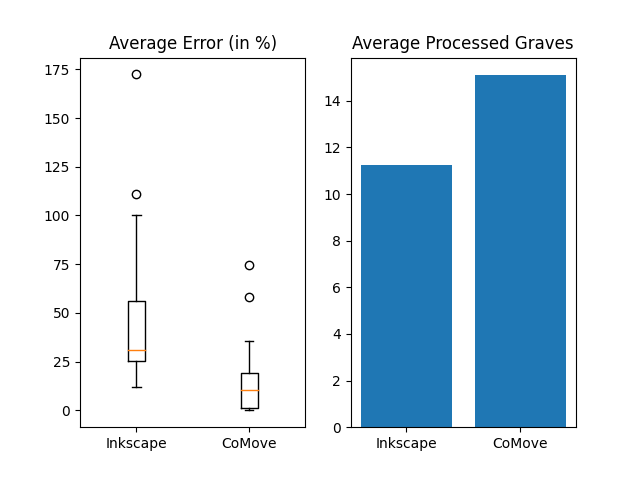
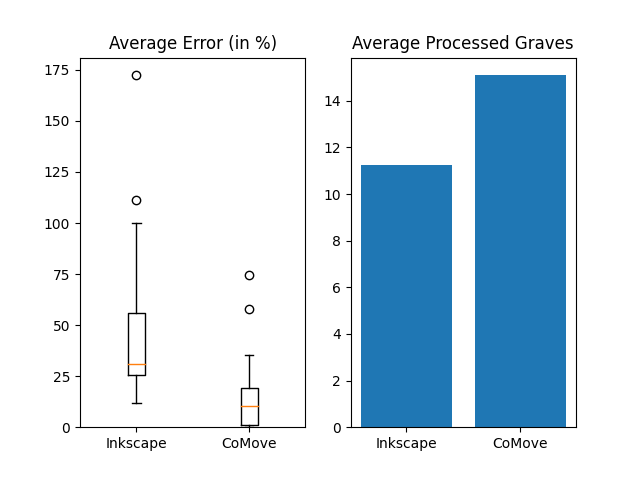
upgma

diff --git a/map/map.py b/map/map.py
@@ -75,6 +75,30 @@ ARICESTI = {
 	'name': 'Ariceștii Rahtivani'
 }
 
+Ciulnita = {
+	'lat': 44.5373408,
+	'lon': 27.3290492,
+	'name': 'Ciulniţa'
+}
+
+Ploiesti = {
+	'lat': 44.9322345,
+	'lon': 25.9686931,
+	'name': 'Ploiești'
+}
+
+Rast = {
+	'lat': 43.8871136,
+	'lon': 23.2735062,
+	'name': 'Rast'
+}
+
+Gurbanesti = {
+	'lat': 44.3792834,
+	'lon': 26.681199,
+	'name': 'Gurbănești'
+}
+
 KOSTYLEVA_UTKIN_RECTANGLE = {
 	'left_bottom': {
 		'lat': 58.27543554276217,
@@ -194,6 +218,107 @@ IVANOVA_TOSHCHEV = {
 	'name': 'Ivanova & Toshchev'
 }
 
+LOUGAS_2016 = {
+	'left_top': {
+		'lat': 59.76703651770406,
+		'lon': 21.6013758030299
+	},
+	'right_top': {
+		'lat': 59.76703651770406,
+		'lon': 27.50023158104496
+	},
+	'left_bottom': {
+		'lat': 57.239364088889104,
+		'lon': 21.6013758030299
+	},
+	'right_bottom': {
+		'lat': 57.239364088889104,
+		'lon': 27.50023158104496
+	},
+	'name': 'Lougas et al 2016'
+}
+
+Gadzyatskaya_2016 = {
+	'left_top': {
+		'lat': 58.104821370702204,
+		'lon': 37.8562392180725
+	},
+	'right_top': {
+		'lat': 58.104821370702204,
+		'lon': 47.63966569928308
+	},
+	'left_bottom': {
+		'lat': 54.61221373386977,
+		'lon': 37.8562392180725
+	},
+	'right_bottom': {
+		'lat': 54.61221373386977,
+		'lon': 47.63966569928308
+	},
+	'name': 'Gadzyatskaya 1976'
+}
+
+Shtintsa_1987 = {
+	'left_top': {
+		'lat': 48.41733033467862,
+		'lon': 27.947938855929397
+	},
+	'right_top': {
+		'lat': 48.41733033467862,
+		'lon': 29.45041596439392
+	},
+	'left_bottom': {
+		'lat': 45.94486828285594,
+		'lon': 27.947938855929397
+	},
+	'right_bottom': {
+		'lat': 45.94486828285594,
+		'lon': 29.45041596439392
+	},
+	'name': 'Gadzyatskaya 1976'
+}
+
+Krainov_1963 = {
+	'left_top': {
+		'lat': 56.57242189778502,
+		'lon': 36.151626620253325
+	},
+	'right_top': {
+		'lat': 56.57242189778502,
+		'lon': 39.11353142737622
+	},
+	'left_bottom': {
+		'lat': 54.36300312740703,
+		'lon': 36.151626620253325
+	},
+	'right_bottom': {
+		'lat': 54.36300312740703,
+		'lon': 39.11353142737622
+	},
+	'name': 'Krainov 1963'
+}
+
+Krainov_1964 = {
+	'left_top': {
+		'lat': 57.22313603869134,
+		'lon': 37.499534552379245
+	},
+	'right_top': {
+		'lat': 57.22313603869134,
+		'lon': 40.43452022589467
+	},
+	'left_bottom': {
+		'lat': 56.17501721104373,
+		'lon': 37.499534552379245
+	},
+	'right_bottom': {
+		'lat': 56.17501721104373,
+		'lon': 40.43452022589467
+	},
+	'name': 'Krainov 1964'
+}
+
+
 for place in [
 	VILKLETICE,
 	VLINEVES,
@@ -202,6 +327,10 @@ for place in [
 	SMEENI,
 	BLEJOI,
 	MOARA_VLASIEI,
+	Ciulnita,
+	Ploiesti,
+	Rast,
+	Gurbanesti,
 	ARICESTI]:
 	pl.scatter(place['lon'], place['lat'], color='r', marker='.', s=10)
 	text.append(pl.text(place['lon'], place['lat'], place['name'], fontweight='demibold',color='k', fontsize=8, alpha=0.7))
@@ -213,6 +342,11 @@ for rect in [
 	FRINCULEASA_2017_RECTANGLE,
 	KOSTYLEVA_UTKIN_RECTANGLE,
 	IVANOVA_TOSHCHEV,
+	LOUGAS_2016,
+	Gadzyatskaya_2016,
+	Shtintsa_1987,
+	Krainov_1963,
+	Krainov_1964,
 	FRINCULEASA_CHILDREN_OF_THE_STEPPE_RECTANGLE]:
 	poly = Polygon([
 		(rect['left_top']['lon'], rect['left_top']['lat']),

diff --git a/app/lib/pca.rb b/app/lib/pca.rb
@@ -1,118 +1,15 @@
 class Pca
-  attr_reader :components, :singular_values, :explained_variance, :explained_variance_ratio
-  attr_accessor :mean, :std
-
+  attr_reader :explained_variance_ratio
   def initialize opts = {}
-    @n_components = opts[:components]
-    @scale_data = opts[:scale_data]
+    @pca = PCA.new(n_components: 2)
   end
 
-  def fit x
-    x = prepare_data x
-    _fit x
-    self
+  def fit(x)
+    @pca.fit(x)
+    @explained_variance_ratio = @pca.explained_variance_ratio_
   end
 
-  def transform x
-    x = prepare_data x
-    _transform x
+  def transform(x)
+    @pca.transform(x)
   end
-
-  def fit_transform x
-    x = prepare_data x
-    _fit x
-    _transform x
-  end
-
-  def inverse_transform x
-    x = ensure_matrix x
-    xit = x * @components
-    undo_scale(xit) if @scale_data
-    undo_mean_normalize xit
-    xit
-  end
-
-  def components=(c)
-    c = ensure_matrix(c)
-    @components = slice_n(c.transpose).transpose
-  end
-
-  private
-    def prepare_data(x)
-      x = ensure_matrix x
-      @mean = calculate_mean(x)
-      mean_normalize(x)
-      if @scale_data
-        @std = calculate_std(x)
-        scale(x)
-      end
-      x
-    end
-
-    def _fit x
-      covariance_matrix = (x.transpose * x) / x.size1
-      u, v, s = covariance_matrix.SV_decomp
-
-      ev = s**2 / x.size1
-      raise if ev.sum == 0.0
-      evr = ev / ev.sum
-
-      @explained_variance = slice_n(ev)
-      @explained_variance_ratio = slice_n(evr)
-      @singular_values = slice_n s
-      @components = slice_n(u).transpose
-    end
-
-    def _transform x
-      x * @components.transpose
-    end
-
-    def ensure_matrix x
-      case x
-      when GSL::Matrix
-        x
-      when Array
-        GSL::Matrix[*x]
-      else
-        x.to_gm
-      end
-    end
-
-    def calculate_mean x
-      x.size2.times.map {|col| x.col(col).mean }
-    end
-
-    def mean_normalize x
-      x.size2.times {|col| x.col(col).sub! @mean[col] }
-    end
-
-    def undo_mean_normalize(x)
-      x.size2.times {|col| x.col(col).add! @mean[col] }
-    end
-
-    def calculate_std(x)
-      x.size2.times.map {|col| x.col(col).sd }
-    end
-
-    def scale(x)
-      x.size2.times do |col|
-        if(@std[col] != 0.0)
-          x.col(col).div! @std[col]
-        end
-      end
-    end
-
-    def undo_scale x
-      x.size2.times {|col| x.col(col).mul! @std[col] }
-    end
-
-    def slice_n x
-      return x unless @n_components
-      case x
-      when GSL::Matrix
-        x.submatrix(nil, 0, @n_components)
-      when GSL::Vector
-        x[0, @n_components]
-      end
-    end
 end

diff --git a/app/controllers/publications_controller.rb b/app/controllers/publications_controller.rb
@@ -24,11 +24,20 @@ class PublicationsController < ApplicationController
     @publications = [@publication, *@other_publications]
 
     @outlines_pca_data, @outline_pca = Stats.outlines_pca([@publication, *@other_publications], special_objects: marked_items, excluded: @excluded_graves)
-    @variances = Stats.pca_variance([@publication, *@other_publications], marked: marked_items,
-      excluded: @excluded_graves)
+    @variances = Stats.pca_variance([@publication, *@other_publications], marked: marked_items, excluded: @excluded_graves)
     @outline_variance_ratio = @outline_pca.explained_variance_ratio.to_a
     @graves_pca, @pca = Stats.graves_pca([@publication, *@other_publications], special_objects: marked_items,
       excluded: @excluded_graves)
+
+    @clustering_result = Upgma.cluster(@outlines_pca_data.map do |item|
+      item[:data].map { [_1[:x], _1[:y]] }
+    end.flatten(1).map { [_1] }, 10).map do |cluster|
+      {
+        data: cluster.map { { x: _1[0], y: _1[1] } }
+      }
+    end
+
+    ap @clustering_result
   end
 
   # GET /publications/new

diff --git a/app/lib/stats.rb b/app/lib/stats.rb
@@ -23,7 +23,7 @@ module Stats
   end
 
   def outlines_pca(publications, special_objects: [], components: 2, excluded: [])
-    pca = Pca.new(components: components, scale_data: true)
+    pca = Pca.new(components: components)
 
     graves = publications.map do |publication|
       graves = publication.graves.sort_by { _1.id }
@@ -31,7 +31,9 @@ module Stats
     end.flatten
 
     contours = graves.map(&:size_normalized_contour)
-    frequencies = contours.map { Efd.elliptic_fourier_descriptors(_1, normalize: true, order: 10).to_a.flatten }
+    frequencies = contours.map { Efd.elliptic_fourier_descriptors(_1, normalize: false, order: 15).to_a.flatten }
+    max = (255.0 / frequencies.flatten.max)
+    frequencies = frequencies.map { |item| item.map { _1 * max }  }
     pca.fit(frequencies)
 
     pca_data = publications.map do |publication|
@@ -39,10 +41,13 @@ module Stats
       graves = filter_graves(graves, excluded: excluded)
 
       contours = graves.map(&:size_normalized_contour)
-      frequencies = contours.map { Efd.elliptic_fourier_descriptors(_1, normalize: true, order: 10).to_a.flatten }
+      frequencies = contours.map { Efd.elliptic_fourier_descriptors(_1, normalize: false, order: 15).to_a.flatten }
+      max = (255.0 / frequencies.flatten.max)
+      frequencies = frequencies.map { |item| item.map { _1 * max }  }
       data = pca.transform(frequencies).to_a.map do |pca_item|
         convert_pca_item_to_polar(pca_item)
       end
+
       graves = data.zip(graves)
       data = graves.map do |item, grave|
         item[:mark] = true if special_objects.include?(grave.id)

diff --git a/app/lib/upgma.rb b/app/lib/upgma.rb
@@ -29,8 +29,8 @@ module Upgma
       matrix = build_matrix(clusters)
     end
 
-    # clusters
-    groups
+    clusters
+    # groups
   end
 
   def build_tree(groups)
@@ -61,7 +61,7 @@ module Upgma
         data2 =  { x: item2[0], y: item2[1] }
         Distance.point_distance(data1, data2)
       end.sum
-    end.sum / (cluster1.length ** cluster2.length)
+    end.sum / (cluster1.length * cluster2.length)
   end
 
   def build_matrix(clusters)

diff --git a/config/application.rb b/config/application.rb
@@ -20,3 +20,9 @@ module Dfgrb
     # config.eager_load_paths << Rails.root.join("extras")
   end
 end
+
+require 'pycall/import'
+include PyCall::Import
+
+pyimport 'numpy', as: :np
+pyfrom 'sklearn.decomposition', import: :PCA

diff --git a/box_plot.py b/box_plot.py
@@ -64,6 +64,7 @@ ax1.set_xticklabels(['Inkscape', 'CoMove'])
 # ticks
 ax1.get_xaxis().tick_bottom()
 ax1.get_yaxis().tick_left()
+ax1.set_ylim(0)
 
 ax2.set_title('Average Processed Graves')
 ax2.bar(['Inkscape', 'CoMove'], [statistics.mean(inkscape_count_data['Graves']), statistics.mean(comove_count_data['Graves'])])